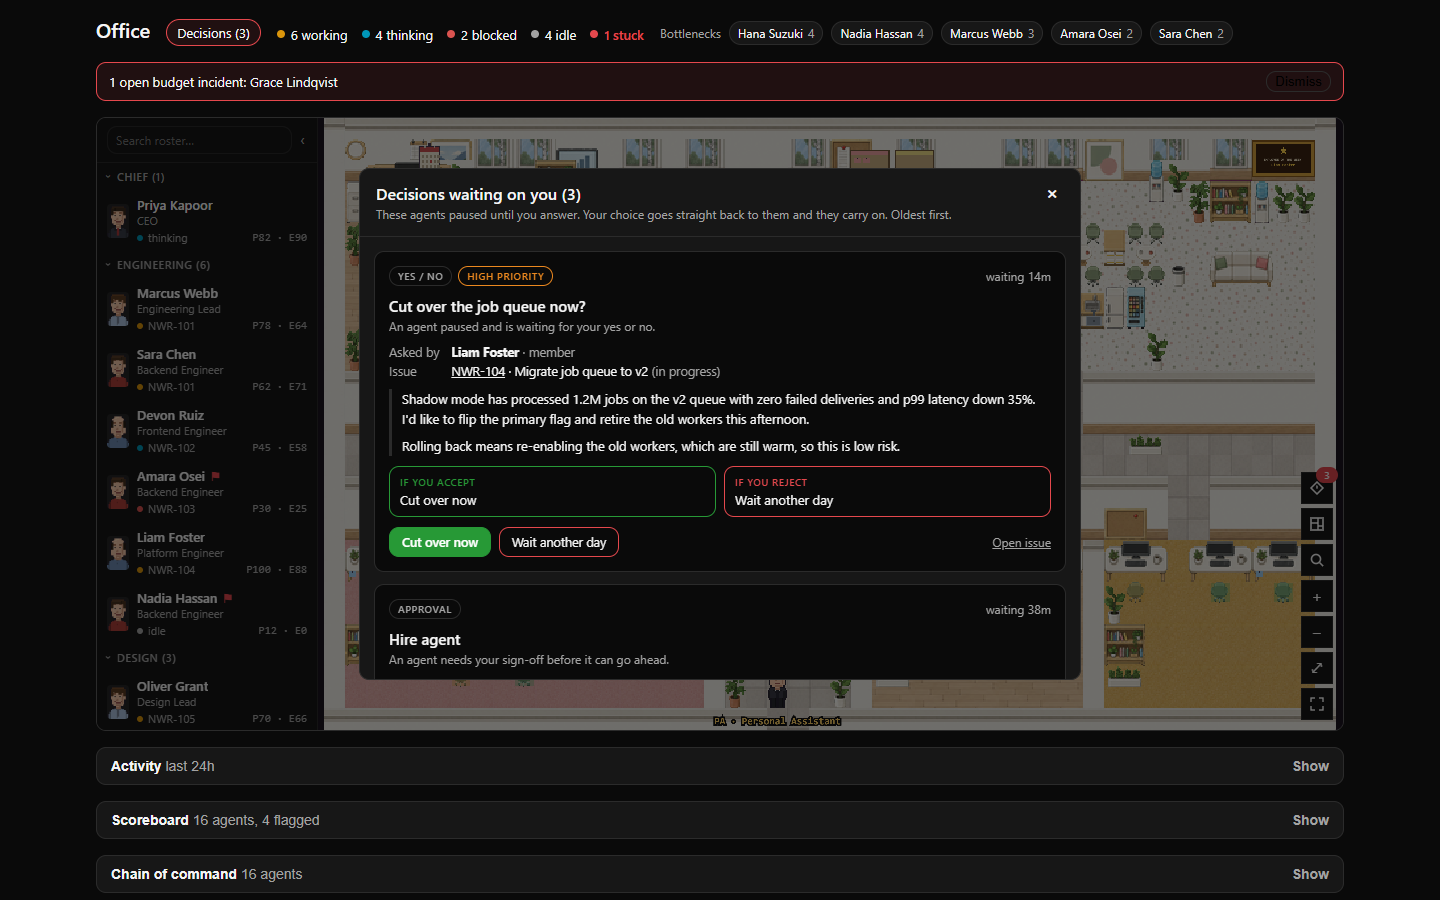
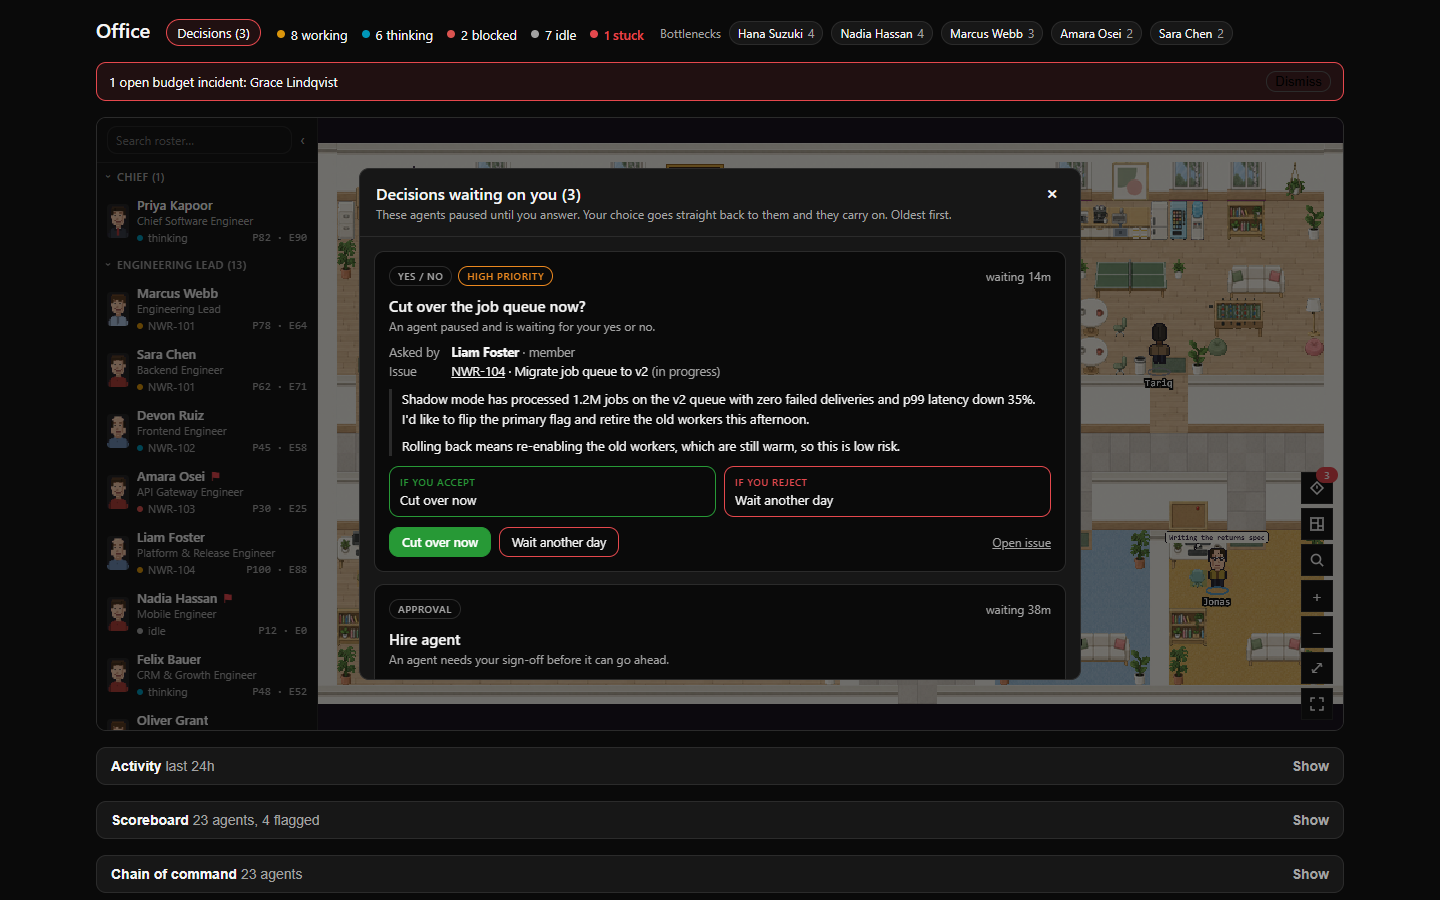
Receptionist at the front desk who greets on hover, solid meeting and ping-pong tables, no corridor runners; demo company mirrors the real office shape; fresh Scandi screenshots

diff --git a/demo/fixtures.ts b/demo/fixtures.ts
@@ -44,27 +44,36 @@ interface Seed {
   flag?: string | null;
 }
 
+// Mirrors the owner's real company shape (a chief, an engineering lead with a core engineer and five module stewards,
+// a quality and security lead with six specialists, and two solo roles), with made-up people.
+const ENG = "Engineering Lead", QS = "Quality & Security Lead", DOCS = "Documentation Steward", PRODUCT = "Product Spec Lead";
 const seeds: Seed[] = [
-  { id: "ceo", name: "Priya Kapoor", role: "chief", title: "CEO", reportsTo: null, department: "Chief", isChief: true, state: "thinking", thought: "Reviewing Q3 roadmap priorities", levelName: "Chief", level: 5, reportsCount: 4, productivity: 82, efficiency: 90 },
+  { id: "ceo", name: "Priya Kapoor", role: "chief", title: "Chief Software Engineer", reportsTo: null, department: "Chief", isChief: true, state: "thinking", thought: "Reviewing Q3 roadmap priorities", levelName: "Chief", level: 5, reportsCount: 4, productivity: 82, efficiency: 90 },
 
-  { id: "eng-lead", name: "Marcus Webb", role: "lead", title: "Engineering Lead", reportsTo: "ceo", department: "Engineering", state: "working", thought: "Reviewing PR for OAuth login", issue: { id: "i1", label: "NWR-101", title: "Add OAuth login", status: "in_progress" }, levelName: "Director", level: 4, reportsCount: 5, progress: 0.6, queueDepth: 3, oldestWaitMinutes: 220, productivity: 78, efficiency: 64 },
-  { id: "eng-1", name: "Sara Chen", role: "member", title: "Backend Engineer", reportsTo: "eng-lead", department: "Engineering", state: "working", thought: "Writing integration tests for auth flow", issue: { id: "i1", label: "NWR-101", title: "Add OAuth login", status: "in_progress" }, levelName: "Senior", level: 2, progress: 0.4, queueDepth: 2, costTodayCents: 340, tokensToday: 182_000, productivity: 62, efficiency: 71 },
-  { id: "eng-2", name: "Devon Ruiz", role: "member", title: "Frontend Engineer", reportsTo: "eng-lead", department: "Engineering", state: "thinking", thought: "Planning checkout test fix", issue: { id: "i2", label: "NWR-102", title: "Fix flaky checkout test", status: "in_progress" }, levelName: "Member", level: 1, queueDepth: 1, productivity: 45, efficiency: 58 },
-  { id: "eng-3", name: "Amara Osei", role: "member", title: "Backend Engineer", reportsTo: "eng-lead", department: "Engineering", state: "blocked", thought: "Waiting on API key approval", issue: { id: "i3", label: "NWR-103", title: "Rate limit the webhook endpoint", status: "blocked" }, levelName: "Member", level: 1, queueDepth: 2, oldestWaitMinutes: 340, productivity: 30, efficiency: 25, flag: "blocked on approval" },
-  { id: "eng-4", name: "Liam Foster", role: "member", title: "Platform Engineer", reportsTo: "eng-lead", department: "Engineering", state: "working", thought: "Migrating queue workers to v2", issue: { id: "i4", label: "NWR-104", title: "Migrate job queue to v2", status: "in_progress" }, levelName: "Senior", level: 2, progress: 0.85, costTodayCents: 512, tokensToday: 260_000, productivity: 100, efficiency: 88 },
-  { id: "eng-5", name: "Nadia Hassan", role: "member", title: "Backend Engineer", reportsTo: "eng-lead", department: "Engineering", state: "idle", levelName: "Member", level: 1, queueDepth: 4, productivity: 12, efficiency: 0, flag: "idle with work waiting" },
+  { id: "eng-lead", name: "Marcus Webb", role: "lead", title: "Engineering Lead", reportsTo: "ceo", department: ENG, state: "working", thought: "Reviewing PR for OAuth login", issue: { id: "i1", label: "NWR-101", title: "Add OAuth login", status: "in_progress" }, levelName: "Director", level: 4, reportsCount: 7, progress: 0.6, queueDepth: 3, oldestWaitMinutes: 220, productivity: 78, efficiency: 64 },
+  { id: "eng-1", name: "Sara Chen", role: "member", title: "Backend Engineer", reportsTo: "eng-lead", department: ENG, state: "working", thought: "Writing integration tests for auth flow", issue: { id: "i1", label: "NWR-101", title: "Add OAuth login", status: "in_progress" }, levelName: "Senior", level: 2, progress: 0.4, queueDepth: 2, costTodayCents: 340, tokensToday: 182_000, productivity: 62, efficiency: 71 },
+  { id: "eng-2", name: "Devon Ruiz", role: "member", title: "Frontend Engineer", reportsTo: "eng-lead", department: ENG, state: "thinking", thought: "Planning checkout test fix", issue: { id: "i2", label: "NWR-102", title: "Fix flaky checkout test", status: "in_progress" }, levelName: "Member", level: 1, queueDepth: 1, productivity: 45, efficiency: 58 },
+  { id: "eng-3", name: "Amara Osei", role: "member", title: "API Gateway Engineer", reportsTo: "eng-lead", department: ENG, state: "blocked", thought: "Waiting on API key approval", issue: { id: "i3", label: "NWR-103", title: "Rate limit the webhook endpoint", status: "blocked" }, levelName: "Member", level: 1, queueDepth: 2, oldestWaitMinutes: 340, productivity: 30, efficiency: 25, flag: "blocked on approval" },
+  { id: "eng-4", name: "Liam Foster", role: "member", title: "Platform & Release Engineer", reportsTo: "eng-lead", department: ENG, state: "working", thought: "Migrating queue workers to v2", issue: { id: "i4", label: "NWR-104", title: "Migrate job queue to v2", status: "in_progress" }, levelName: "Senior", level: 2, progress: 0.85, costTodayCents: 512, tokensToday: 260_000, productivity: 100, efficiency: 88 },
+  { id: "eng-5", name: "Nadia Hassan", role: "member", title: "Mobile Engineer", reportsTo: "eng-lead", department: ENG, state: "idle", levelName: "Member", level: 1, queueDepth: 4, productivity: 12, efficiency: 0, flag: "idle with work waiting" },
+  { id: "growth-lead", name: "Felix Bauer", role: "member", title: "CRM & Growth Engineer", reportsTo: "eng-lead", department: ENG, state: "thinking", thought: "Drafting referral program brief", levelName: "Senior", level: 2, queueDepth: 1, productivity: 48, efficiency: 52 },
+  { id: "design-lead", name: "Oliver Grant", role: "lead", title: "Core Platform Engineer", reportsTo: "eng-lead", department: ENG, state: "working", thought: "Polishing the orders API", issue: { id: "i5", label: "NWR-105", title: "Redesign the orders API", status: "in_progress" }, levelName: "Lead", level: 3, reportsCount: 5, progress: 0.3, queueDepth: 2, productivity: 70, efficiency: 66 },
+  { id: "design-1", name: "Ines Moreau", role: "member", title: "Orders Module Steward", reportsTo: "design-lead", department: ENG, state: "thinking", thought: "Exploring order edge cases", levelName: "Member", level: 1, productivity: 40, efficiency: 55 },
+  { id: "design-2", name: "Tariq Ahmed", role: "member", title: "Scheduling Module Steward", reportsTo: "design-lead", department: ENG, state: "idle", levelName: "Member", level: 1, productivity: 18, efficiency: 0 },
+  { id: "growth-1", name: "Yuki Tanaka", role: "member", title: "Guests Module Steward", reportsTo: "design-lead", department: ENG, state: "idle", levelName: "Member", level: 1, productivity: 22, efficiency: 0 },
+  { id: "growth-2", name: "Carla Mendes", role: "member", title: "Dispatch Module Steward", reportsTo: "design-lead", department: ENG, state: "working", thought: "Tuning dispatch batching", issue: { id: "i8", label: "NWR-108", title: "Batch dispatch jobs", status: "in_progress" }, levelName: "Member", level: 1, productivity: 35, efficiency: 41 },
+  { id: "steward-5", name: "Omar Haddad", role: "member", title: "Picking Module Steward", reportsTo: "design-lead", department: ENG, state: "idle", levelName: "Member", level: 1, productivity: 15, efficiency: 0 },
 
-  { id: "design-lead", name: "Oliver Grant", role: "lead", title: "Design Lead", reportsTo: "ceo", department: "Design", state: "working", thought: "Polishing onboarding flow mockups", issue: { id: "i5", label: "NWR-105", title: "Redesign onboarding flow", status: "in_progress" }, levelName: "Lead", level: 3, reportsCount: 2, progress: 0.3, queueDepth: 2, productivity: 70, efficiency: 66 },
-  { id: "design-1", name: "Ines Moreau", role: "member", title: "Product Designer", reportsTo: "design-lead", department: "Design", state: "thinking", thought: "Exploring empty-state illustrations", levelName: "Member", level: 1, productivity: 40, efficiency: 55 },
-  { id: "design-2", name: "Tariq Ahmed", role: "member", title: "Product Designer", reportsTo: "design-lead", department: "Design", state: "idle", levelName: "Member", level: 1, productivity: 18, efficiency: 0 },
+  { id: "qa-lead", name: "Hana Suzuki", role: "lead", title: "Quality & Security Lead", reportsTo: "ceo", department: QS, state: "blocked", thought: "Blocked on staging environment reset", issue: { id: "i6", label: "NWR-106", title: "Stabilize staging environment", status: "blocked" }, levelName: "Lead", level: 3, reportsCount: 6, queueDepth: 4, oldestWaitMinutes: 500, productivity: 60, efficiency: 30, flag: "blocked on NWR-106" },
+  { id: "qa-1", name: "Bruno Alves", role: "member", title: "QA & Test Engineer", reportsTo: "qa-lead", department: QS, state: "working", thought: "Running regression suite on checkout", issue: { id: "i2", label: "NWR-102", title: "Fix flaky checkout test", status: "in_progress" }, levelName: "Senior", level: 2, progress: 0.7, productivity: 66, efficiency: 74 },
+  { id: "qa-2", name: "Grace Lindqvist", role: "member", title: "QA Verdict Engineer", reportsTo: "qa-lead", department: QS, state: "working", thought: "no output for 42 min", stuck: true, stuckReason: "no output for 42 min", issue: { id: "i7", label: "NWR-107", title: "Add e2e coverage for billing", status: "in_progress" }, sinceMin: 42, levelName: "Member", level: 1, queueDepth: 1, productivity: 55, efficiency: 20, flag: "no output for 42 min" },
+  { id: "qs-3", name: "Elena Petrova", role: "member", title: "Codebase Quality Manager", reportsTo: "qa-lead", department: QS, state: "idle", levelName: "Senior", level: 2, productivity: 38, efficiency: 0 },
+  { id: "qs-4", name: "Kwame Mensah", role: "member", title: "Solutions Architect", reportsTo: "qa-lead", department: QS, state: "thinking", thought: "Sketching the event bus", levelName: "Senior", level: 2, productivity: 52, efficiency: 60 },
+  { id: "qs-5", name: "Ravi Iyer", role: "member", title: "Performance Auditor", reportsTo: "qa-lead", department: QS, state: "idle", levelName: "Member", level: 1, productivity: 20, efficiency: 0 },
+  { id: "qs-6", name: "Sofia Rossi", role: "member", title: "Security Auditor", reportsTo: "qa-lead", department: QS, state: "working", thought: "Auditing session cookies", issue: { id: "i9", label: "NWR-109", title: "Harden session cookies", status: "in_progress" }, levelName: "Member", level: 1, productivity: 44, efficiency: 50 },
 
-  { id: "qa-lead", name: "Hana Suzuki", role: "lead", title: "QA Lead", reportsTo: "ceo", department: "QA", state: "blocked", thought: "Blocked on staging environment reset", issue: { id: "i6", label: "NWR-106", title: "Stabilize staging environment", status: "blocked" }, levelName: "Lead", level: 3, reportsCount: 2, queueDepth: 4, oldestWaitMinutes: 500, productivity: 60, efficiency: 30, flag: "blocked on NWR-106" },
-  { id: "qa-1", name: "Bruno Alves", role: "member", title: "QA Engineer", reportsTo: "qa-lead", department: "QA", state: "working", thought: "Running regression suite on checkout", issue: { id: "i2", label: "NWR-102", title: "Fix flaky checkout test", status: "in_progress" }, levelName: "Senior", level: 2, progress: 0.7, productivity: 66, efficiency: 74 },
-  { id: "qa-2", name: "Grace Lindqvist", role: "member", title: "QA Engineer", reportsTo: "qa-lead", department: "QA", state: "working", thought: "no output for 42 min", stuck: true, stuckReason: "no output for 42 min", issue: { id: "i7", label: "NWR-107", title: "Add e2e coverage for billing", status: "in_progress" }, sinceMin: 42, levelName: "Member", level: 1, queueDepth: 1, productivity: 55, efficiency: 20, flag: "no output for 42 min" },
-
-  { id: "growth-lead", name: "Felix Bauer", role: "lead", title: "Growth Lead", reportsTo: "ceo", department: "Growth", state: "thinking", thought: "Drafting referral program brief", levelName: "Lead", level: 3, reportsCount: 2, queueDepth: 1, productivity: 48, efficiency: 52 },
-  { id: "growth-1", name: "Yuki Tanaka", role: "member", title: "Growth Marketer", reportsTo: "growth-lead", department: "Growth", state: "idle", levelName: "Member", level: 1, productivity: 22, efficiency: 0 },
-  { id: "growth-2", name: "Carla Mendes", role: "member", title: "Lifecycle Marketer", reportsTo: "growth-lead", department: "Growth", state: "idle", levelName: "Member", level: 1, productivity: 15, efficiency: 0 },
+  { id: "docs", name: "Mei Lin", role: "member", title: "Documentation Steward", reportsTo: "ceo", department: DOCS, state: "idle", levelName: "Member", level: 1, productivity: 25, efficiency: 0 },
+  { id: "pm", name: "Jonas Berg", role: "lead", title: "Product Spec Lead", reportsTo: "ceo", department: PRODUCT, state: "thinking", thought: "Writing the returns spec", levelName: "Lead", level: 3, productivity: 58, efficiency: 62 },
 ];
 
 function buildAgent(s: Seed): OfficeAgent {

diff --git a/src/layout/generate.ts b/src/layout/generate.ts
@@ -26,6 +26,8 @@ export interface Rect { x: number; y: number; w: number; h: number }
 
 /** Doors are two tiles wide; wall heights come from the palette's geometry. */
 const DOOR_WIDTH = 2;
+/** Wall of Fame plaque width in tiles (src/ui/wallPlaque.ts draws it at the "plaque" zone). */
+const PLAQUE_W = 3;
 
 const TILE_LAYERS = ["floor", "walls", "furniture-below", "furniture-above", "collision"] as const;
 type LayerName = (typeof TILE_LAYERS)[number];
@@ -83,7 +85,7 @@ export interface Palette {
   hallDecor?: Stamp[];
   /** Desk chair gid for a seat on this floor tile, so chairs contrast with the room. */
   chairFor?: (floorGid: number) => number | undefined;
-  /** Pieces hung between windows on the outer wall (shelves, art, clock); windows alone when absent. */
+  /** Sequence hung along each bare run of the outer wall, one tile apart and centred; windows every five tiles when absent. */
   wallKit?: number[][][];
   /** Four café seat tiles in office.tmj coordinates, when the palette's café plan moves the chairs. */
   cafeSeats?: [number, number][];
@@ -548,7 +550,8 @@ export function generateOfficeMap(
     }
   }
   const lobby = { x: sx, y: rowTop[K - 1], w: sw, h: H - 1 - rowTop[K - 1] };
-  if (cfg.reception) tryDecor(DECOR.reception, sx, H - 6, lobby);
+  // The receptionist (src/ui/receptionist.ts) stands behind the desk's middle tile.
+  if (cfg.reception && tryDecor(DECOR.reception, sx, H - 6, lobby)) spawns.push({ name: "reception-desk", x: sx + 1, y: H - 6 });
 
   // Corridor life: a runner down the middle and props standing against the upper wall, never blocking a route.
   const hallKit = palette.hallDecor ?? [];
@@ -591,9 +594,43 @@ export function generateOfficeMap(
   // Windows along the outer top wall.
   const wallKit = palette.wallKit;
   if (!wallKit?.length) for (let x = 2; x < W - 3; x += 5) wallDecor(WINDOW, x, 1);
-  else for (let x = 3, n = 0; x < W - 3; x += 6, n++) {
-    const piece = n % 3 === 0 ? WINDOW : wallKit[Math.floor(n / 3 + n) % wallKit.length];
-    wallDecor(piece, x, 1);
+  else {
+    // Keep clear of upstream's clock and calendar, which it draws at fixed tiles in the chief's office.
+    for (const a of [{ x: 1, y: 1 }, { x: 4, y: 1 }]) {
+      const m = mapTemplateTile(a, offsets) ?? a;
+      for (let c = -1; c <= 1; c++) for (const yy of [1, 2]) wallBusy.add(yy * W + m.x + c);
+    }
+    const free = (x: number) => [1, 2].every((yy) => {
+      const g = get("walls", x, yy);
+      return g && g !== G.vwall && g !== G.vwallCap && !get("furniture-above", x, yy) && !wallBusy.has(yy * W + x);
+    });
+    const runs = () => {
+      const out: { x: number; len: number }[] = [];
+      for (let x = 1, start = -1; x <= W - 1; x++) {
+        if (x < W - 1 && free(x)) { if (start < 0) start = x; continue; }
+        if (start >= 0) { out.push({ x: start, len: x - start }); start = -1; }
+      }
+      return out;
+    };
+    // The Wall of Fame plaque takes the leftmost run with room for it and a gap each side.
+    const spot = runs().find((r) => r.len >= PLAQUE_W + 2);
+    if (spot) {
+      zones.push({ name: "plaque", x: spot.x + 1, y: 1, w: PLAQUE_W, h: 2 });
+      for (let c = 0; c <= PLAQUE_W + 1; c++) for (const yy of [1, 2]) wallBusy.add(yy * W + spot.x + c);
+    }
+    // Every other bare run gets the palette's sequence, one tile apart and centred in the run.
+    for (const r of runs()) {
+      const pieces: number[][][] = [];
+      let used = -1;
+      for (let n = 0; ; n++) {
+        const p = wallKit[n % wallKit.length];
+        if (used + 1 + p[0].length > r.len - 2) break;
+        pieces.push(p);
+        used += 1 + p[0].length;
+      }
+      let x = r.x + 1 + Math.floor((r.len - 2 - used) / 2);
+      for (const p of pieces) { wallDecor(p, x, 1); x += p[0].length + 1; }
+    }
   }
 
   const ts = palette.mapBase.tilewidth;

diff --git a/src/layout/styles/scandi.ts b/src/layout/styles/scandi.ts
@@ -58,7 +58,7 @@ const CAFE: CafePlan = {
     put("window", 0, 0, "none", 1); put("art_abstract", 3, 0, "none"); put("window", 6, 0, "none", 1);
     put("counter_l", 0, 2, "base"); put("counter_micro", 1, 2, "base"); put("counter_coffee", 2, 2, "base"); put("counter_sink", 3, 2, "base");
     put("counter", 4, 2, "base"); put("fridge", 5, 2, "base"); put("vending", 6, 2, "base"); put("cooler", 7, 2, "base");
-    put("plant_small", 1, 5); put("pingpong", 2, 5, "base"); put("plant_small", 6, 5);
+    put("plant_small", 1, 5); put("pingpong", 2, 5); put("plant_small", 6, 5);
     table(put, 0, 8); table(put, 0, 10);
     put("bin", 4, 10); put("fig", 7, 9, "base");
   },
@@ -77,7 +77,7 @@ const ROOMS = {
     put("window", 0, 0, "none", 1); put("screen_bars", 3, 0, "none"); put("window", 7, 0, "none", 1);
     put("plant_small", 0, 2); put("plant_small", 8, 2); put("credenza", 3, 2);
     for (let x = 2; x <= 6; x++) { put("meeting_chair_0", x, 4, "none"); put("meeting_chair_1", x, 7, "none"); }
-    put("meeting_table", 2, 5, "base");
+    put("meeting_table", 2, 5);
     put("fig", 0, 7, "base"); put("bin", 7, 8); put("monstera", 8, 7, "base");
   }),
   cafe: room(8, 11, 2, (put) => CAFE.place(put)),
@@ -90,6 +90,14 @@ DESK.above[0] = [...DESK.below[0]];
 export const SCANDI_MONITOR_GID = obj("desk_off")[0][1];
 /** DeskScreen overlay: the whole lit desk drawn over the dark one, relative to the monitor tile (seat.x, seat.y - 2). */
 export const SCANDI_MONITOR_ON: [number, number, number][] = obj("desk_on").flatMap((r, dy) => r.map((g, dx) => [g, dx - 1, dy] as [number, number, number]));
+
+// Outer-wall sequences, repeated along each bare run of wall and centred in it.
+const WALL_STYLES = {
+  gallery: ["window", "sconce", "art_landscape", "sconce", "window", "photo"],
+  garden: ["hanging_plant", "window", "wall_shelf", "window", "hanging_plant", "art_abstract"],
+  calm: ["window", "hanging_plant", "wall_shelf", "hanging_plant", "window", "sconce", "clock", "sconce"],
+} satisfies Record<string, Name[]>;
+const WALL_STYLE: keyof typeof WALL_STYLES = "calm";
 
 const patterns = new Map<number, number[][]>();
 const floor = (n: Name) => { const g = obj(n); patterns.set(g[0][0], g); return g[0][0]; };
@@ -146,10 +154,9 @@ export function scandiPalette(): Palette {
     rooms: ROOMS,
     desk: DESK,
     geometry: { outerWallRows: 3, wallRows: 3 },
-    runnerRug: obj("rug"),
     doorMat: obj("doormat")[0],
     chairFor: (g) => chairByFloor.get(g),
-    wallKit: (["wall_shelf", "art_landscape", "clock", "photo", "art_abstract", "wall_shelf"] as Name[]).map(obj),
+    wallKit: WALL_STYLES[WALL_STYLE].map((n) => (n === "window" ? obj(n).slice(1) : obj(n))),
     todoBoard: obj("kanban"),
     cafeSeats: CAFE.seats,
     cafeStands: CAFE.stands,

diff --git a/src/ui/receptionist.ts b/src/ui/receptionist.ts
@@ -1,0 +1,46 @@
+import { Container, Graphics, Rectangle, Text } from "pixi.js";
+import { CharacterSprite } from "../../vendor/munder-difflin/src/renderer/src/scene/office/CharacterSprite.js";
+import { loadTheme } from "../overrides/themeLoader.js";
+import { useStore } from "../adapters/store.js";
+import { getSceneTileSize, getSpawnTile } from "./seatMap.js";
+
+const GREETING = "Welcome in! Who are you here to see?";
+
+/** A receptionist who always sits at the front desk and greets whoever hovers over her. Like the PA she is drawn
+ *  here, not by the store, so she never claims a seat or shows up in counts, roster or scoreboard. */
+export function mountReceptionist(world: Container): void {
+  const tile = getSpawnTile("reception-desk");
+  if (!tile) return;
+  const ts = getSceneTileSize();
+
+  const layer = new Container();
+  layer.position.set(tile.x * ts + ts / 2, tile.y * ts + ts);
+  layer.eventMode = "static";
+  layer.cursor = "pointer";
+  layer.hitArea = new Rectangle(-ts / 2, -ts * 2, ts, ts * 2);
+  world.addChild(layer);
+
+  void loadTheme(useStore.getState().officeTheme).then(async (theme) => {
+    const frames = await theme.cast.getFrames("pam");
+    if (layer.destroyed) return;
+    const sprite = new CharacterSprite(frames);
+    sprite.setAnimation("idle", "down");
+    layer.addChildAt(sprite.container, 0);
+  });
+
+  const bubble = new Container();
+  const bg = new Graphics();
+  const text = new Text({ text: GREETING, style: { fontFamily: "monospace", fontSize: 10, fill: 0x2a2a2a, fontWeight: "bold" } });
+  text.resolution = 5;
+  text.anchor.set(0.5, 0.5);
+  const w = text.width + 14;
+  bg.roundRect(-w / 2, -11, w, 22, 6).fill({ color: 0xfff6d8, alpha: 0.97 }).stroke({ width: 1.5, color: 0x6b8f71 });
+  bubble.addChild(bg, text);
+  bubble.position.set(0, -ts * 2 - 8);
+  bubble.visible = false;
+  layer.addChild(bubble);
+
+  const scaleBubble = () => bubble.scale.set(1 / world.scale.x);
+  layer.on("pointerover", () => { scaleBubble(); bubble.visible = true; });
+  layer.on("pointerout", () => { bubble.visible = false; });
+}

diff --git a/src/ui/wallPlaque.ts b/src/ui/wallPlaque.ts
@@ -5,7 +5,7 @@ const PLAQUE_TILES = 3;
 const WALL_ROWS = [1, 2];
 const TEXT_RESOLUTION = 6;
 
-interface TileLayer { name: string; type?: string; data?: number[] }
+interface TileLayer { name: string; type?: string; data?: number[]; objects?: { name: string; x: number; y: number }[] }
 interface SceneMap { width: number; tilewidth: number; layers: TileLayer[] }
 
 let sceneMap: SceneMap | null = null;
@@ -58,7 +58,8 @@ function label(text: string, size: number, color: number): Text {
 
 /** Hangs a clickable Wall of Fame frame on the office wall; called with the camera's world container. */
 export function mountPlaque(world: Container): void {
-  const spot = sceneMap && findPlaqueTile(sceneMap, PLAQUE_TILES, taskBoard);
+  const zone = sceneMap?.layers.find((l) => l.name === "zones")?.objects?.find((o) => o.name === "plaque");
+  const spot = zone && sceneMap ? { x: zone.x / sceneMap.tilewidth, y: zone.y / sceneMap.tilewidth } : sceneMap && findPlaqueTile(sceneMap, PLAQUE_TILES, taskBoard);
   if (!sceneMap || !spot) return;
   const ts = sceneMap.tilewidth;
   const w = PLAQUE_TILES * ts;

diff --git a/src/overrides/Camera.ts b/src/overrides/Camera.ts
@@ -4,6 +4,7 @@ import { mountPlaque } from "../ui/wallPlaque.js";
 import { mountHeatmap } from "../ui/heatmapLayer.js";
 import { mountAgentLabels } from "../ui/agentLabels.js";
 import { mountPa } from "../ui/paCharacter.js";
+import { mountReceptionist } from "../ui/receptionist.js";
 import { Camera as UpstreamCamera } from "../../vendor/munder-difflin/src/renderer/src/scene/office/Camera.js";
 import { Container, Graphics, Ticker } from "pixi.js";
 import { getSceneTileSize } from "../ui/seatMap.js";
@@ -41,6 +42,7 @@ export class Camera extends UpstreamCamera {
     mountAgentLabels(args[0]);
     mountPa(args[0]);
     hideAskBoard(args[0]);
+    mountReceptionist(args[0]);
   }
 
   override nudgeToward(worldX: number, worldY: number): void {

diff --git a/src/ui/seatMap.ts b/src/ui/seatMap.ts
@@ -78,6 +78,11 @@ export function getSceneTileSize(): number {
 }
 
 /** The office door, for anything that should walk in the way agents do. */
+export function getSpawnTile(name: string): Tile | null {
+  if (!sceneMap) return null;
+  return spawnPoints(sceneMap).get(name) ?? null;
+}
+
 export function getEntranceTile(): Tile | null {
   if (!sceneMap) return null;
   return spawnPoints(sceneMap).get("entrance") ?? null;
